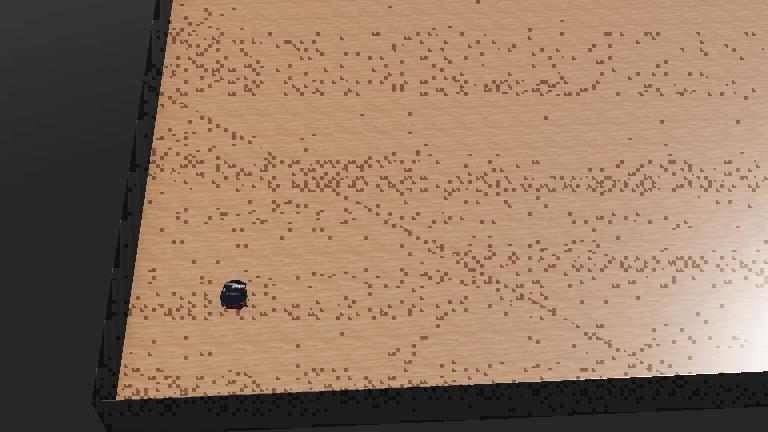
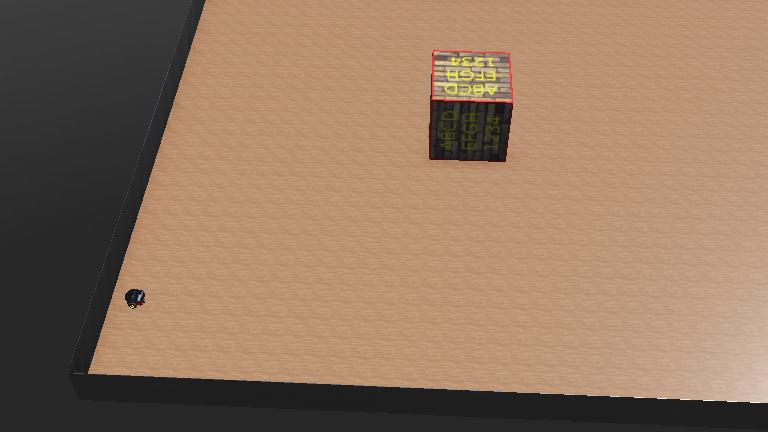
front, left and right obstracle sensors added

diff --git a/controllers/pioneer_controller/sensors.cpp b/controllers/pioneer_controller/sensors.cpp
@@ -5,12 +5,13 @@ SensorsController::SensorsController(Robot *robot)
     this->robot = robot;
 }
 
-void SensorsController::initSensors(int timeStep)
+void SensorsController::initSensors()
 {
+    int timeStep = getRobotTimestep(robot);
     for (int i = 0; i < NUMBER_OF_DISTANCE_SENSORS; i++)
     {
-        this->sensors[i] = this->robot->getDistanceSensor(this->distanceSensorsName[i]);
-        this->sensors[i]->enable(timeStep);
+        this->distanceSensors[i] = this->robot->getDistanceSensor(this->distanceSensorsName[i]);
+        this->distanceSensors[i]->enable(timeStep);
     }
 }
 
@@ -19,12 +20,30 @@ vector<bool> SensorsController::getSensorsCondition()
     vector<bool> sensorsConditions;
     for (int i = 0; i < NUMBER_OF_DISTANCE_SENSORS; i++)
     {
-        double val = this->sensors[i]->getValue();
-        if (val >= SENSOR_VALUE_DETECTION_THRESHOLD)
+        double val = this->distanceSensors[i]->getValue();
+        if (val < TOO_CLOSE_DISTANCE)
             sensorsConditions.push_back(true);
         else
             sensorsConditions.push_back(false);
     }
 
     return sensorsConditions;
+}
+
+bool SensorsController::isSomethingInFront()
+{
+    vector<bool> distanceSensorsCondition = getSensorsCondition();
+    return distanceSensorsCondition[3] || distanceSensorsCondition[4];
+}
+
+bool SensorsController::isSomethingInFrontLeft()
+{
+    vector<bool> distanceSensorsCondition = getSensorsCondition();
+    return distanceSensorsCondition[1] || distanceSensorsCondition[3];
+}
+
+bool SensorsController::isSomethingInFrontRight()
+{
+    vector<bool> distanceSensorsCondition = getSensorsCondition();
+    return distanceSensorsCondition[4] || distanceSensorsCondition[6];
 }

diff --git a/controllers/pioneer_controller/pioneer_controller.cpp b/controllers/pioneer_controller/pioneer_controller.cpp
@@ -15,7 +15,9 @@ int main(int argc, char **argv)
   // create the Robot instance.
   Robot *robot = new Robot();
 
-  // // SensorsController *sensorsController = new SensorsController(robot);
+  SensorsController *sensorsController = new SensorsController(robot);
+  sensorsController->initSensors();
+  
   MotorController *motorController = new MotorController(robot);
 
   // get the time step of the current world.
@@ -26,14 +28,17 @@ int main(int argc, char **argv)
 
   while (robot->step(timeStep) != -1)
   {
-    if (f)
-    {
-      // motorController->moveToDestination(dest);
-      motorController->motorRotateLeftInDegree(180);
+    // if (f)
+    // {
+    //   motorController->moveToDestination(dest);
+    //   // motorController->motorRotateLeftInDegree(180);
 
-
-      f = false;
-    }
+    //   f = false;
+    // }
+    cout << "==================================" << endl;
+    cout << "front: " << sensorsController->isSomethingInFront() << endl;
+    cout << "left: " << sensorsController->isSomethingInFrontLeft() << endl;
+    cout << "right: " << sensorsController->isSomethingInFrontRight() << endl;
   };
 
   // Enter here exit cleanup code.

diff --git a/controllers/pioneer_controller/sensors.h b/controllers/pioneer_controller/sensors.h
@@ -6,6 +6,7 @@
 #include <cstring>
 #include <vector>
 #include "defs.h"
+#include "robotsUtils.h"
 
 using namespace webots;
 using namespace std;
@@ -17,12 +18,15 @@ private:
     // string distanceSensorsName[NUMBER_OF_DISTANCE_SENSORS] = {"ps0", "sops1", "ps2", "ps3", "ps4", "ps5", "ps6", "ps7"};
     string distanceSensorsName[NUMBER_OF_DISTANCE_SENSORS] = {"so0", "so1", "so2", "so3", "so4", "so5", "so6", "so7",
                                                               "so8", "so9", "so10", "so11", "so12", "so13", "so14", "so15"};
-    DistanceSensor *sensors[NUMBER_OF_DISTANCE_SENSORS];
+    DistanceSensor *distanceSensors[NUMBER_OF_DISTANCE_SENSORS];
 
 public:
     SensorsController(Robot *robot);
-    void initSensors(int timeStep);
+    void initSensors();
     vector<bool> getSensorsCondition();
+    bool isSomethingInFront();
+    bool isSomethingInFrontLeft();
+    bool isSomethingInFrontRight();
 };
 
 #endif

diff --git a/controllers/pioneer_controller/defs.h b/controllers/pioneer_controller/defs.h
@@ -19,3 +19,5 @@
 #define COORDINATE_MATCHING_ACCURACY 0.02 //in meter
 
 #define THETA_MATCHING_ACCURACY 1 //in degrees
+
+#define TOO_CLOSE_DISTANCE 0.2f
